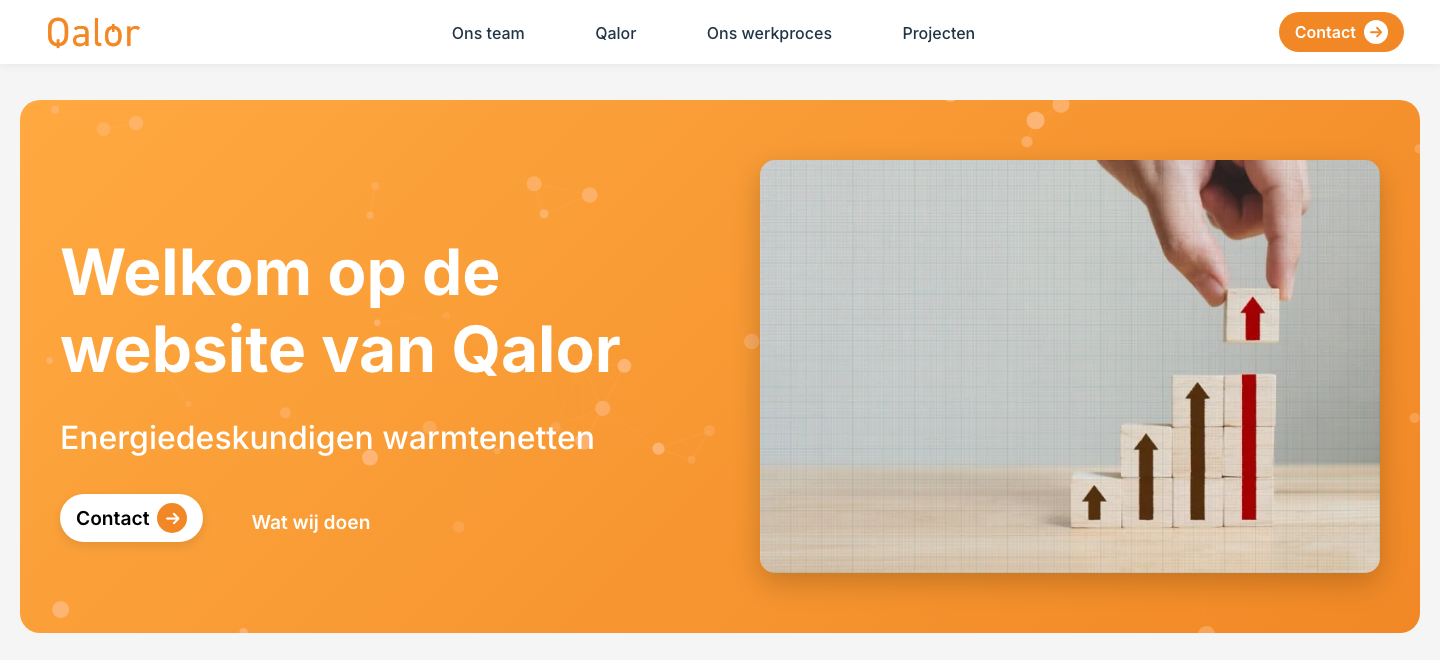
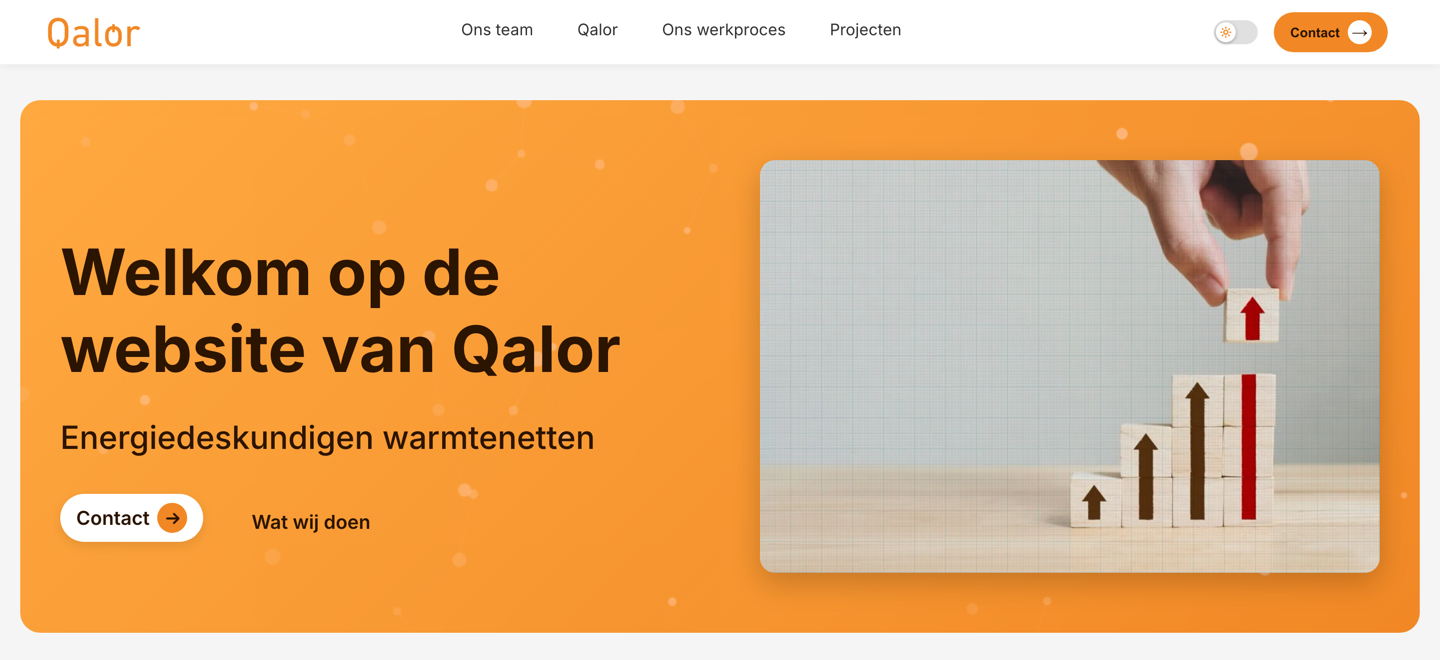
Reshoot the README screenshot, and document dark mode
The existing shot predated the theme toggle, so the header in it no longer
matched the site. Added a dark-mode companion shot: the pair shows what the
theme actually changes (navigation bar, page ground) and what it
deliberately doesn't (the Hero's orange fill, which is a fill paired with
its own text and never depended on the page behind it).

Dark mode wasn't mentioned anywhere in the README despite being a headline
feature, and the Testing section didn't say the a11y sweep runs in both
themes.

Both images are captured at 2x and downsampled, so they're a little crisper
than the old one at roughly the same file size.

diff --git a/README.md b/README.md
@@ -8,7 +8,9 @@ Lighthouse audit and a bundle budget — nothing publishes unless all of it pass
 
 **Live preview site:** https://artoriun.github.io/qalor-website-preview/
 
-<img width="1440" alt="Qalor homepage" src=".github/readme-assets/homepage.png" />
+<img width="1440" alt="Qalor homepage in light mode" src=".github/readme-assets/homepage.png" />
+
+<img width="1440" alt="The same page in dark mode — the navigation bar and page background go dark while the Hero's orange fill is unchanged" src=".github/readme-assets/homepage-dark.png" />
 
 ## Features
 
@@ -18,6 +20,13 @@ Lighthouse audit and a bundle budget — nothing publishes unless all of it pass
   TypeScript port; the handful of extra routes below are plain `pathname` checks.
 - **Every section is admin-editable at `/admin`** — no code change or redeploy needed to
   update copy, images, team members, or projects. See [ADMIN.md](ADMIN.md).
+- **WCAG AA dark mode**, toggled from the header. CSS custom properties on `:root`,
+  redefined under `[data-theme="dark"]` and set by a blocking inline script in
+  `index.html` before first paint — so there's no flash of the wrong theme and nothing for
+  React to disagree with on hydration. Light is the standard first visit regardless of the
+  OS setting; only an explicit toggle (persisted to `localStorage`) switches it. The
+  orange *fills* are deliberately theme-invariant: a button's own background against its
+  own label never depended on the page behind it.
 - **SEO landing pages** at `/warmtenet-tekening/`, `/warmtenet-ontwerp/`,
   `/warmtenetberekening/` and `/warmtenet-business-case/` — one page per search intent,
   each with its own copy, title, canonical and `Service` schema. See [SEO.md](SEO.md).
@@ -121,7 +130,10 @@ they're far enough down that this isn't a risk.
 `npm run test:e2e` runs layout assertions (no horizontal overflow, exactly one `h1`,
 nothing renders past the footer, the mobile hamburger menu works, the team CV modal
 opens/closes) and an axe-core accessibility sweep, both across desktop and two mobile
-viewports. `npm run check:lighthouse` audits the built, prerendered output and gates on
+viewports. The sweep covers the home page, a service landing page and the admin sign-in
+screen, each in **both light and dark mode** — the dark pass flips the real header toggle
+rather than pre-seeding `localStorage`, so it exercises the toggle itself as well as the
+tokens underneath it. `npm run check:lighthouse` audits the built, prerendered output and gates on
 accessibility/SEO/best-practices at 100 — performance is measured and printed but never
 gated, since a shared CI runner's timings vary by more than the thing being measured.
 `npm run check:budgets` is the deterministic half of that: a gzipped bundle-size ceiling.
